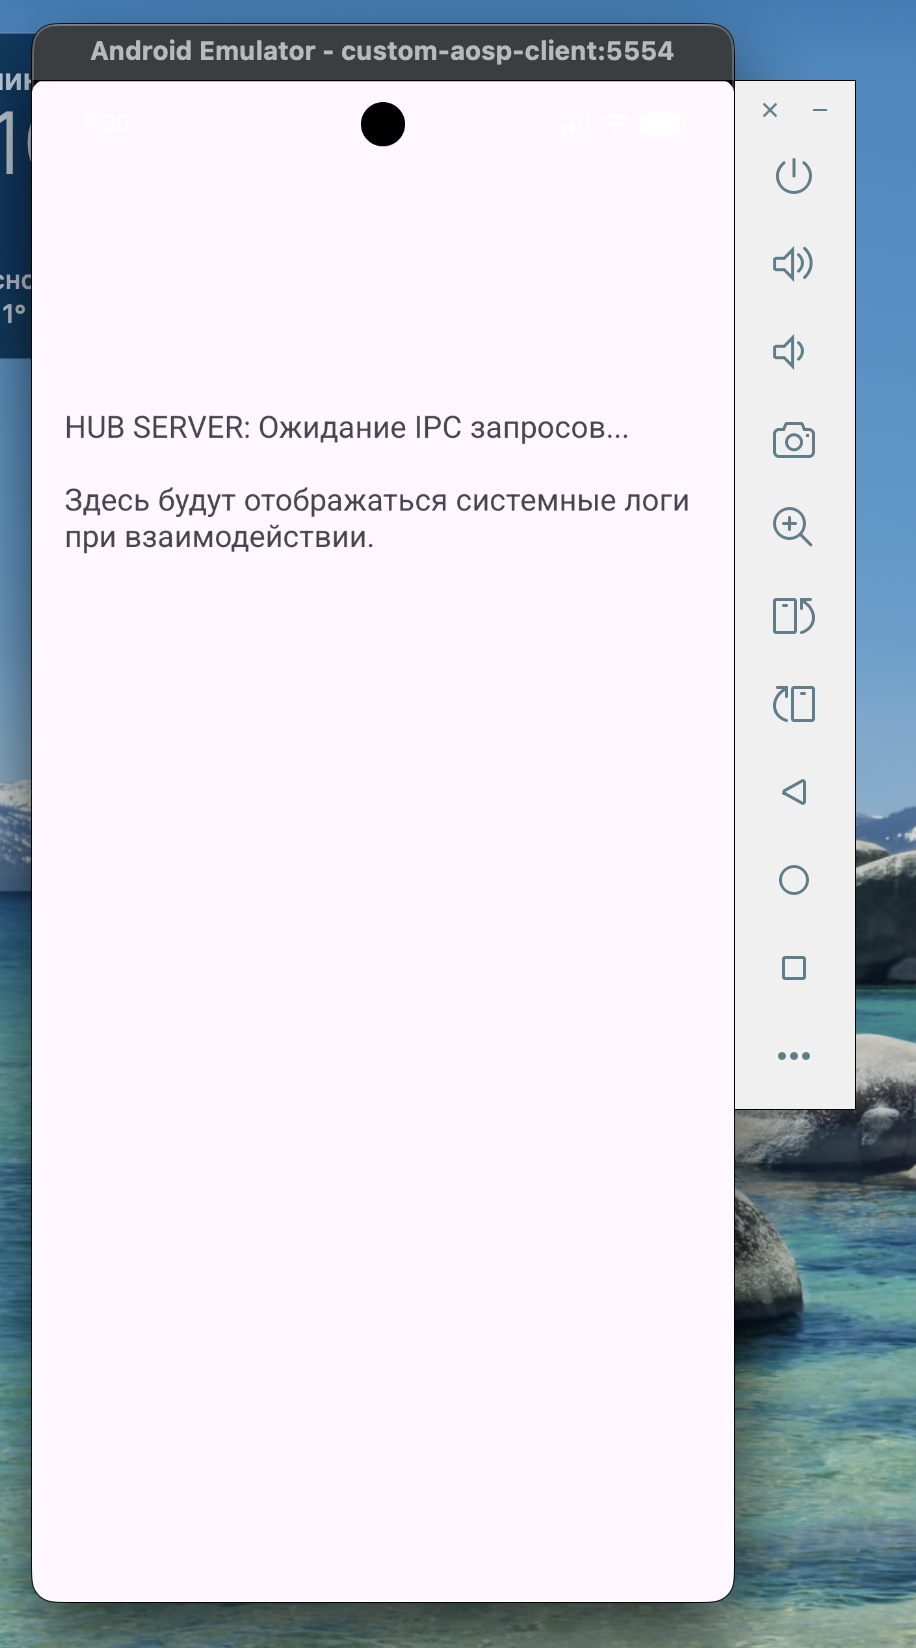
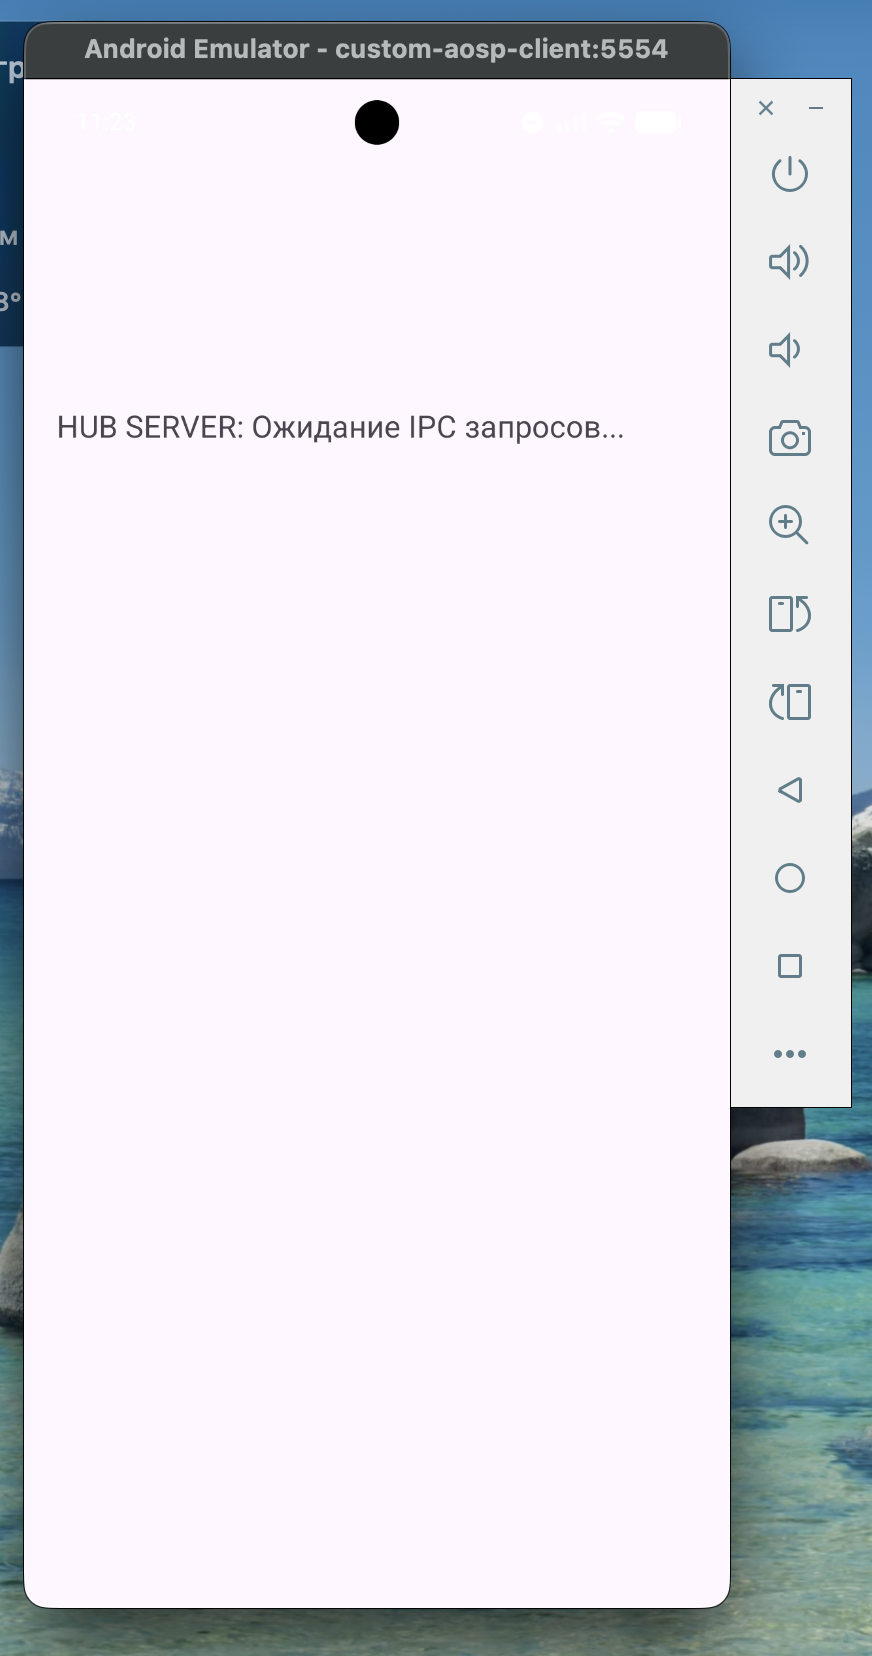
Update IPCMonitorClient/README.md

diff --git a/TestAndroidIPCApps/IPCHubTestApp/app/src/main/java/com/example/ipchubtestapp/MainActivity.kt b/TestAndroidIPCApps/IPCHubTestApp/app/src/main/java/com/example/ipchubtestapp/MainActivity.kt
@@ -8,7 +8,7 @@ class MainActivity : AppCompatActivity() {
     override fun onCreate(savedInstanceState: Bundle?) {
         super.onCreate(savedInstanceState)
         val tv = TextView(this).apply {
-            text = "HUB SERVER: Ожидание IPC запросов...\n\nЗдесь будут отображаться системные логи при взаимодействии."
+            text = "HUB SERVER: Ожидание IPC запросов..."
             textSize = 18f
             setPadding(50, 500, 50, 50)
         }

diff --git a/IPCMonitorClient/README.md b/IPCMonitorClient/README.md
@@ -48,7 +48,10 @@
     --ez "flag" true \
     --esa "array" "one,two,three" \
     -c "android.intent.category.TEST"
-
+  ```
+  Также для тестирования IPC взаимодействий между текущими установленными приложениями в системе, можно еще запустить monkey testing через adb со случайными событиями и нажатиями кнопок в разных приложениях
+  ```bash
+  adb shell monkey --pct-syskeys 0 --throttle 500 -v 500
   ```
 
 ## Запуск тестовых приложений для демонстрации получения данных об IPC взаимодействиях
@@ -58,6 +61,11 @@
   <img src="../img/test_server_hub_example.png" width="400" height="800">
 - [IPCCallerTestApp](../TestAndroidIPCApps/IPCCallerTestApp/) - тестовое приложение, имитирующее инициатора IPС взаимодействий с Hub Server. Раз в 15 секунд, отправляет к `IPCHubTestApp` запрос на запуск соответствующего `Service` и получение данных от `ContentProvider`. При получении `BroadcastReceiver` от `IPCHubTestApp` показывает Toast-уведомление на соответствующем экране. 
   <img src="../img/test_caller_app_example.png" width="400" height="800">
+
+Для установки тестового приложения на устройство через adb, нужно перейти в соответствующую директорию и выполнить команду:
+```bash
+./gradlew assembleDebug && adb install -r app/build/outputs/apk/debug/app-debug.apk
+```
 
 ## Формат получаемых данных от Android
 
